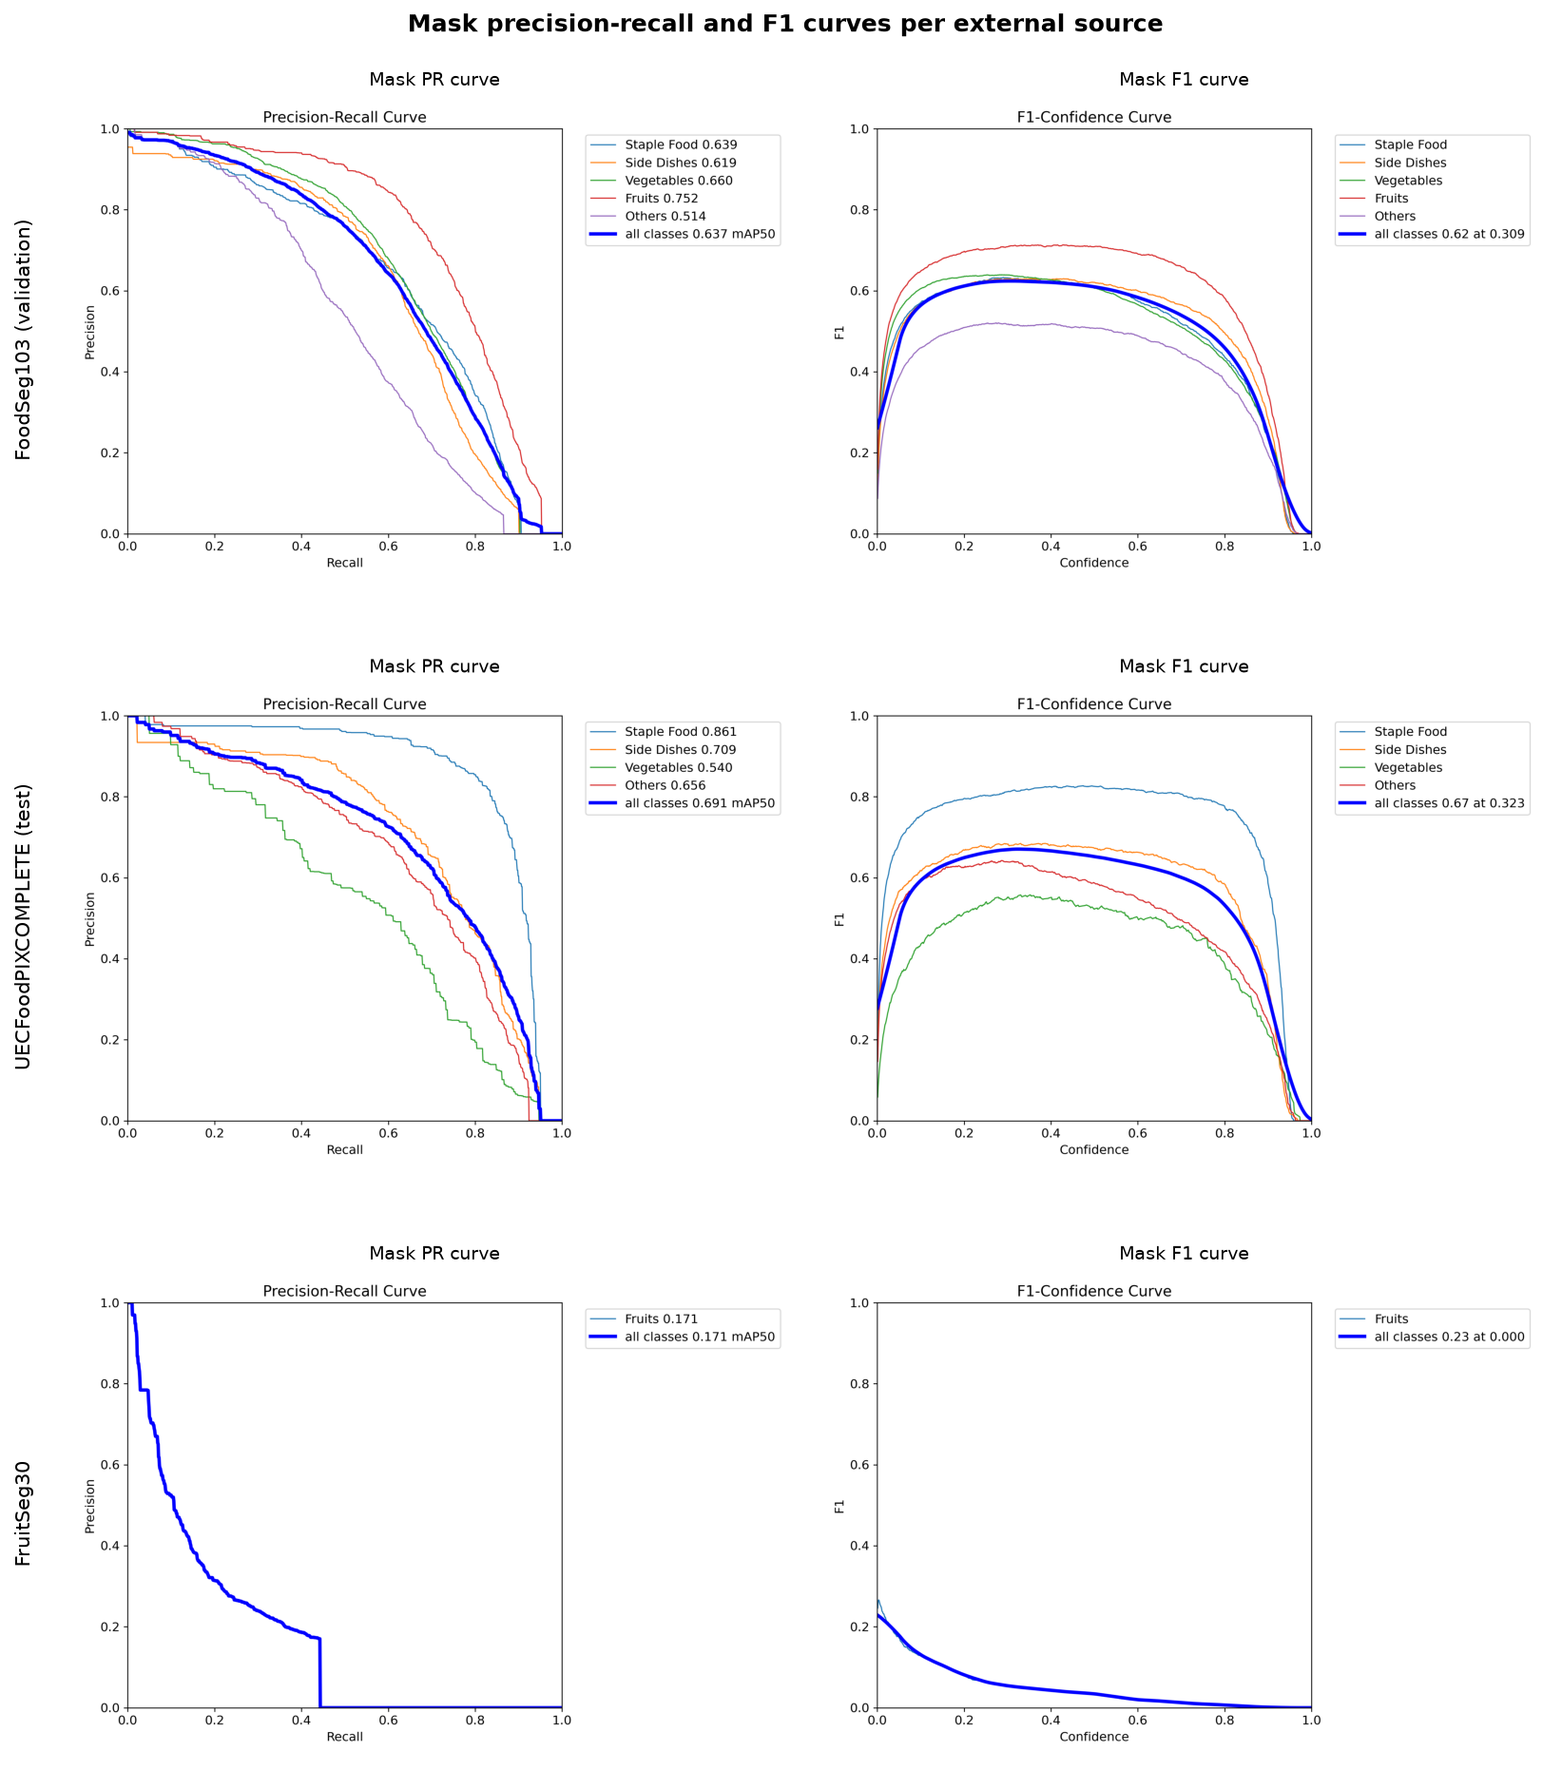
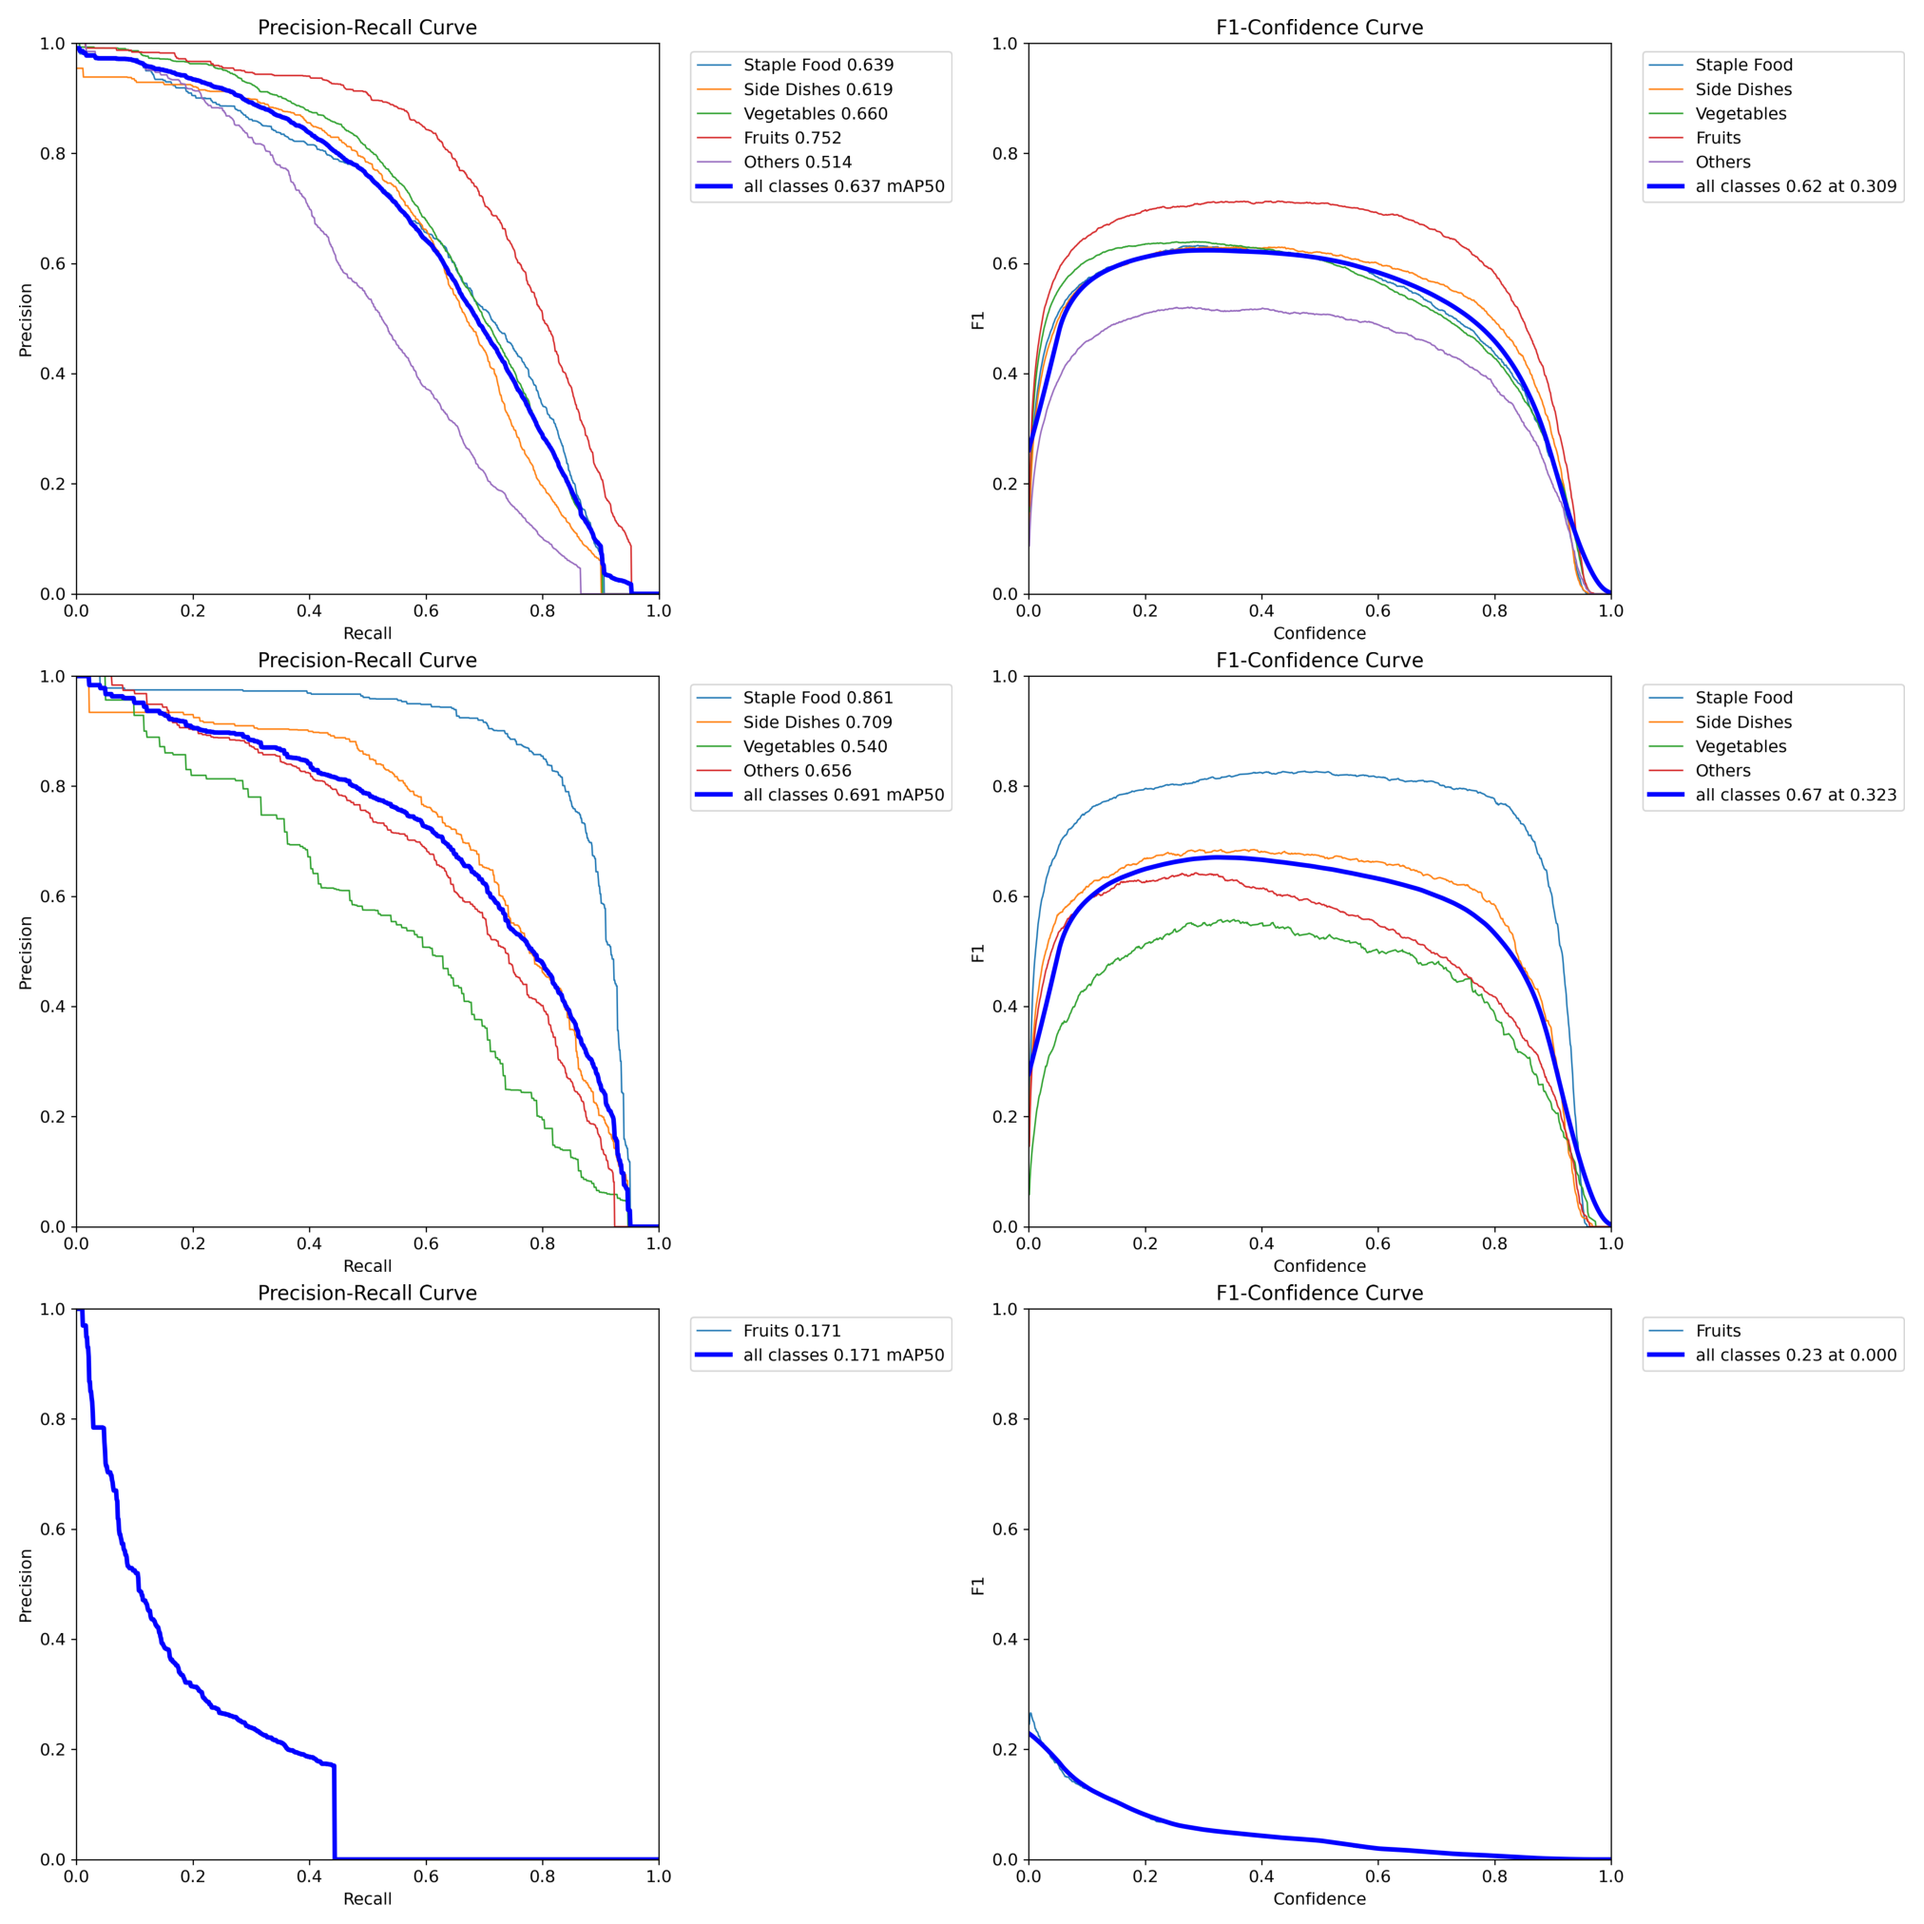
style(figures): tighten figure 7 and remove in-image labels
Figure 7 is now a compact 3x2 grid: the outer white margin of every panel is trimmed with a shared bounding box and the subplots are packed (wspace/hspace 0.02, aspect=auto). The added suptitle, column titles, and rotated row labels are removed so the arrangement can be described in the typed caption instead.

diff --git a/experiments/scripts/make_paper_figures.py b/experiments/scripts/make_paper_figures.py
@@ -11,7 +11,8 @@ Figures are written to ``figures/figure N.png`` at 300 DPI:
 * Figure 5  - qualitative GT vs prediction, internal validation (composite).
 * Figure 6  - normalised confusion matrices, three external sources
               (three separate files: 6.1 FoodSeg103, 6.2 UEC, 6.3 FruitSeg30).
-* Figure 7  - mask PR and F1 curves, three external sources (composite).
+* Figure 7  - mask PR and F1 curves, three external sources
+              (tight 3x2 grid, no added text labels).
 * Figure 8  - per-class external mask AP50 (from ``per_class_all.csv``).
 * Figure 9  - nutrition-label extraction pipeline diagram (drawn).
 * Figure 10 - qualitative label-extraction example (input + ROI + fields).
@@ -385,26 +386,34 @@ def figure6():
 
 
 # --------------------------------------------------------------------------- #
-# Figure 7 - mask PR and F1 curves
+# Figure 7 - mask PR and F1 curves (tight 3x2 grid, no added text labels)
 # --------------------------------------------------------------------------- #
 def figure7():
-    sources = [("FoodSeg103 (validation)", SEG / "foodseg_val_instance"),
-               ("UECFoodPIXCOMPLETE (test)", SEG / "uec_test_instance"),
-               ("FruitSeg30", SEG / "fruitseg_instance")]
-    fig, axes = plt.subplots(3, 2, figsize=(11, 13))
-    for row, (title, folder) in enumerate(sources):
+    sources = [SEG / "foodseg_val_instance",
+               SEG / "uec_test_instance",
+               SEG / "fruitseg_instance"]
+    panels = {}
+    for row, folder in enumerate(sources):
         for col, fname in enumerate(("MaskPR_curve.png", "MaskF1_curve.png")):
-            ax = axes[row, col]
-            ax.imshow(imread(folder / fname))
-            ax.axis("off")
-            ax.set_title(("Mask PR curve" if col == 0 else "Mask F1 curve"),
-                         fontsize=9)
-        axes[row, 0].text(-0.05, 0.5, title, rotation=90, va="center",
-                          ha="right", fontsize=10, transform=axes[row, 0].transAxes)
-    fig.suptitle("Mask precision-recall and F1 curves per external source",
-                 fontsize=12, fontweight="bold")
-    fig.tight_layout()
-    save(fig, 7, dpi=150)
+            panels[(row, col)] = imread(folder / fname)
+
+    # one common bounding box removes the outer white margin from every panel
+    box = None
+    for img in panels.values():
+        arr = (img[..., :3] * 255).astype(np.uint8)
+        ys, xs = np.where((arr < 245).any(axis=2))
+        b = (ys.min(), ys.max() + 1, xs.min(), xs.max() + 1)
+        box = b if box is None else (min(box[0], b[0]), max(box[1], b[1]),
+                                     min(box[2], b[2]), max(box[3], b[3]))
+    y0, y1, x0, x1 = box
+
+    fig, axes = plt.subplots(3, 2, figsize=(10, 10))
+    for (row, col), img in panels.items():
+        axes[row, col].imshow(img[y0:y1, x0:x1], aspect="auto")
+        axes[row, col].set_axis_off()
+    fig.subplots_adjust(left=0.004, right=0.996, top=0.996, bottom=0.004,
+                        wspace=0.02, hspace=0.02)
+    save(fig, 7, dpi=200)
 
 
 # --------------------------------------------------------------------------- #

diff --git a/figures/README.md b/figures/README.md
@@ -15,7 +15,7 @@ Gambar untuk naskah `experiments/paper/manuscript_jri.md` (`manuscript_jri.docx`
 | `figure 6.1.png` | Normalised confusion matrix — FoodSeg103 (validation). | `results/segmentation/foodseg_val_instance/confusion_matrix_normalized.png` |
 | `figure 6.2.png` | Normalised confusion matrix — UECFoodPIXCOMPLETE (test). | `results/segmentation/uec_test_instance/confusion_matrix_normalized.png` |
 | `figure 6.3.png` | Normalised confusion matrix — FruitSeg30. | `results/segmentation/fruitseg_instance/confusion_matrix_normalized.png` |
-| `figure 7.png` | Mask precision-recall and F1 curves for each external source. | Gabungan `*_instance/MaskPR_curve.png` + `MaskF1_curve.png` |
+| `figure 7.png` | Mask precision-recall and F1 curves for each external source. | Grid 3×2 **padat** dari `*_instance/MaskPR_curve.png` + `MaskF1_curve.png`; tanpa label tambahan — baris: FoodSeg103, UECFoodPIXCOMPLETE, FruitSeg30; kolom: mask PR (kiri), mask F1 (kanan) |
 | `figure 8.png` | Per-class external mask AP50 by source and class. | Dari `results/segmentation/per_class_all.csv` |
 | `figure 9.png` | Nutrition-label extraction pipeline: preprocessing, recognition, and layout reconstruction. | Diagram (digambar) |
 | `figure 10.png` | Qualitative example of label extraction. | Foto `20241108_132045` + tabel hasil grid parser vs ground truth |
@@ -48,6 +48,11 @@ sisipkan `figure 6.1/6.2/6.3` secara manual di bawah caption Figure 6.
 - Resolusi 300 DPI; format PNG.
 - Figure 6 = tiga file terpisah: 6.1 FoodSeg103 (validation), 6.2 UECFoodPIXCOMPLETE
   (test), 6.3 FruitSeg30. Penomoran figure lain (7-10) tidak berubah.
+- Figure 7 = grid 3×2 **tanpa teks tambahan** (judul/label sengaja dihilangkan agar
+  Anda ketik di caption). Urutan panel: baris FoodSeg103 → UECFoodPIXCOMPLETE →
+  FruitSeg30; kolom mask PR (kiri) lalu mask F1 (kanan). Judul di dalam tiap panel
+  ("Precision-Recall Curve" / "F1-Confidence Curve") berasal dari plot Ultralytics
+  sumber, bukan tambahan dari skrip.
 - Figure 1, 2, dan 9 (diagram yang **digambar**) dibuat **hitam-putih / abu-abu**
   seperti diagram blok referensi. Figure 3-8 dan 10 berasal dari hasil eksperimen
   (kurva, confusion matrix, tabel) sehingga tampil apa adanya.
